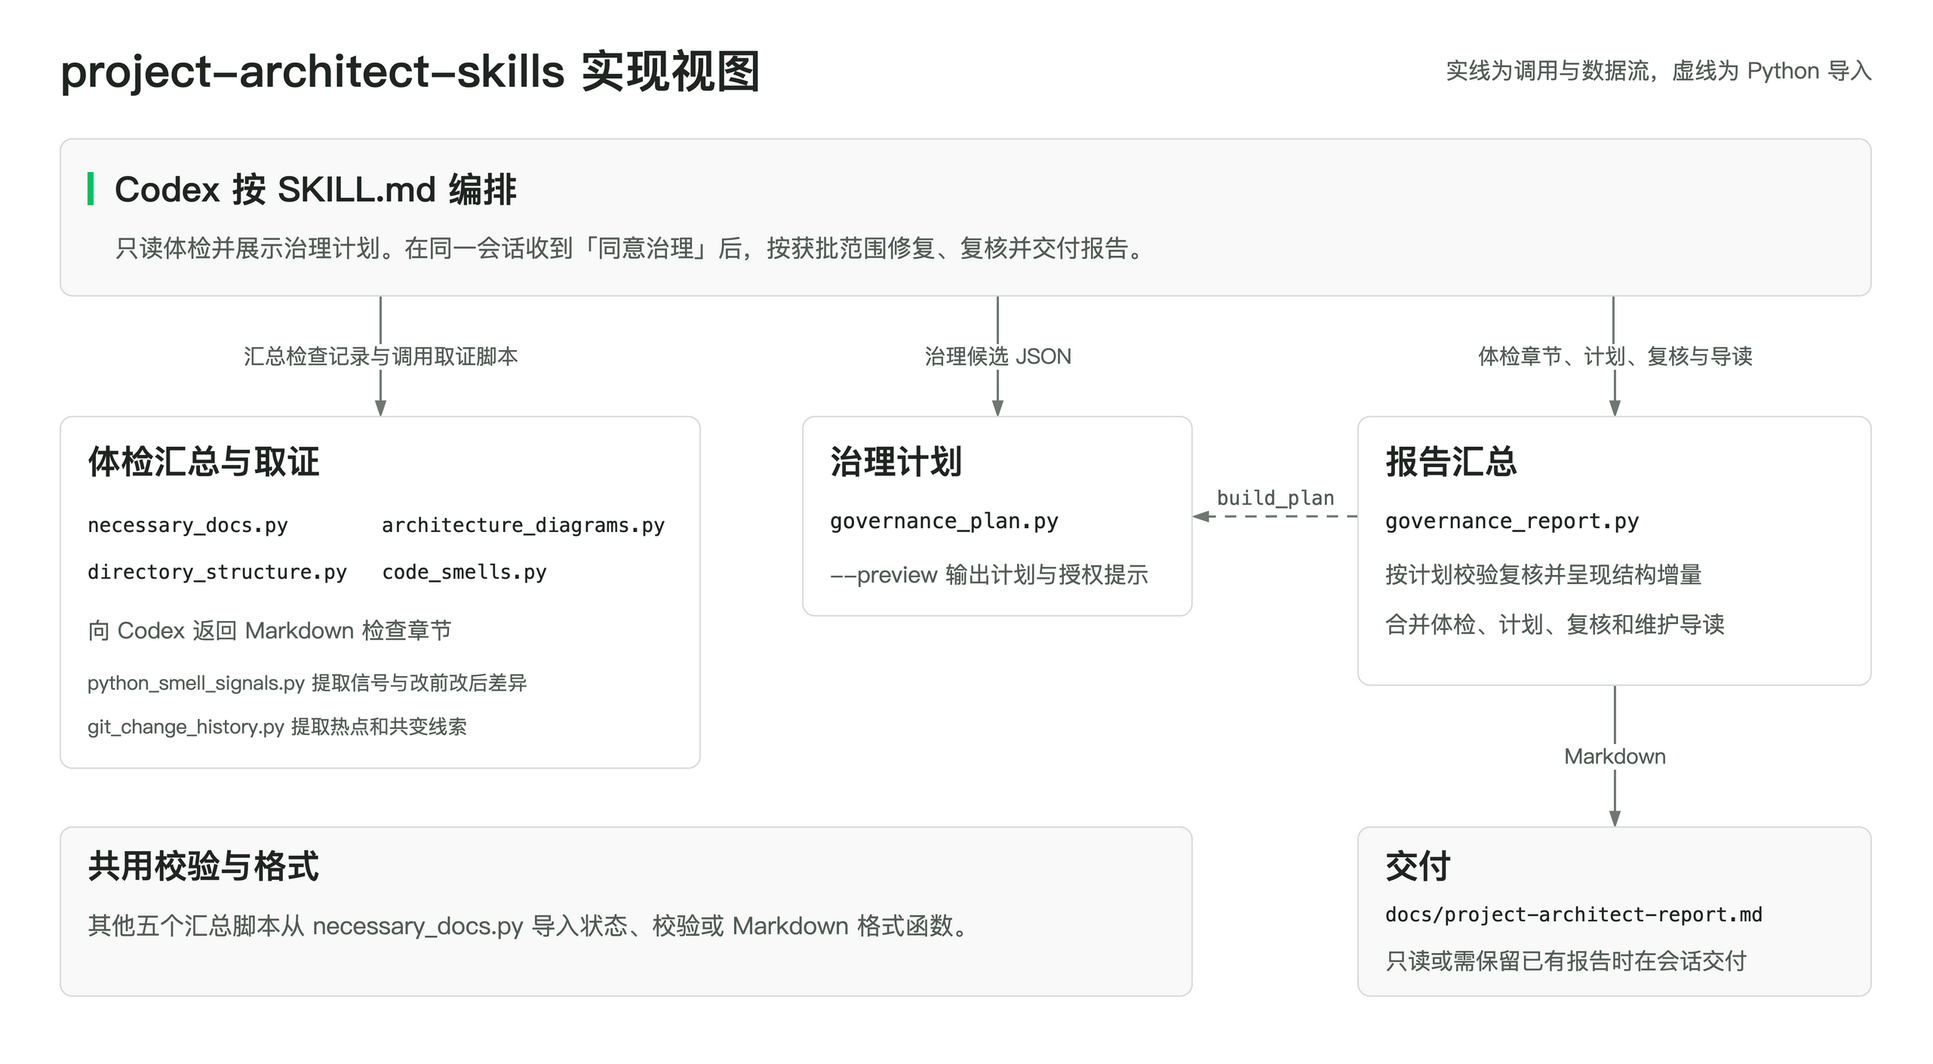
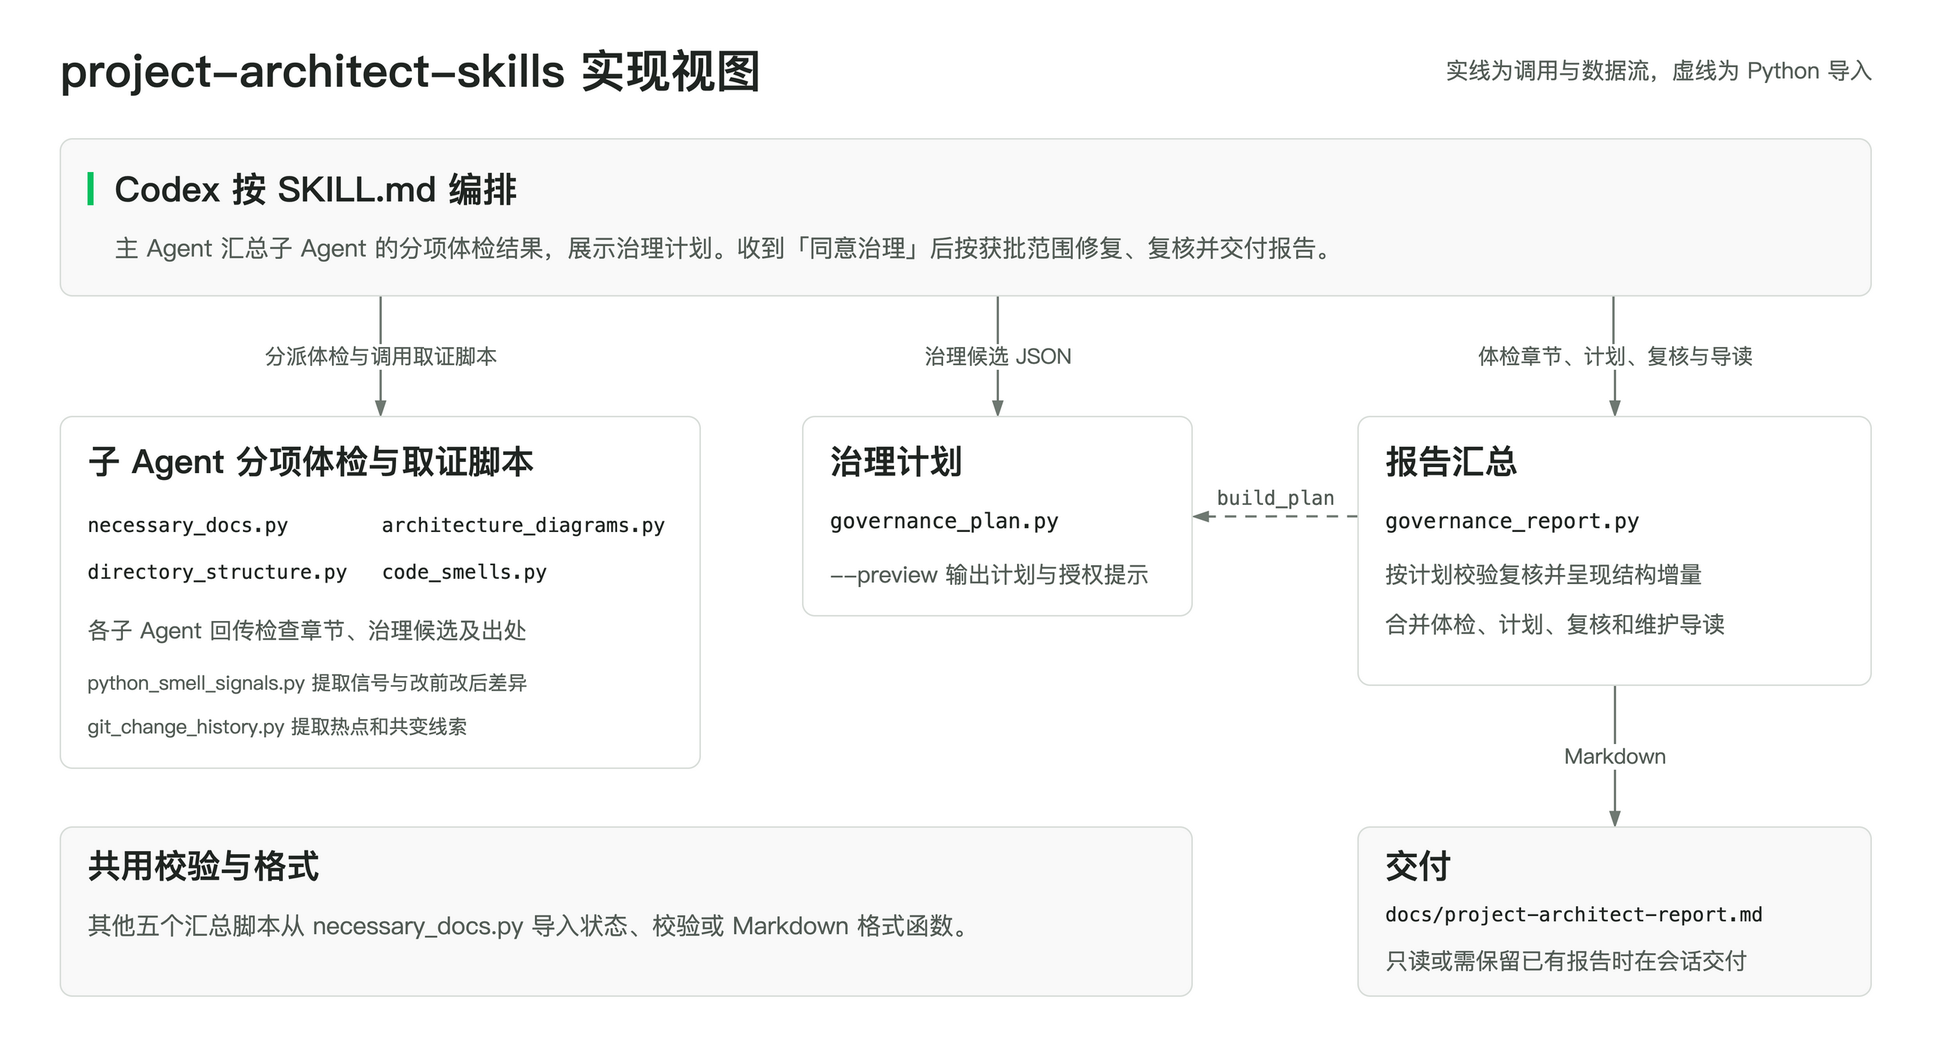
分派子 Agent 体检并按评估结果推荐治理事项

diff --git a/tests/test_governance_plan.py b/tests/test_governance_plan.py
@@ -53,7 +53,7 @@ class GovernancePlanTests(unittest.TestCase):
         self.assertEqual(result.stdout, "")
         self.assertIn(field, result.stderr)
 
-    def test_selects_first_three_eligible_candidates_and_retains_unselected_evidence(self):
+    def test_keeps_all_recommended_items_in_order_and_explains_other_findings(self):
         unresolved = candidate(
             "核实同名规则", "src/names.py::sort_names",
             status="待确认", reason="同名记录的业务口径尚无依据。",
@@ -62,15 +62,18 @@ class GovernancePlanTests(unittest.TestCase):
             ready("补写验证说明", "README.md#验证"),
             unresolved,
             ready("更新模块图", "docs/modules.md#依赖"),
+            candidate("统一示例排版", "docs/examples.md", status="暂缓", reason="排版不影响本轮交接。"),
             ready("补写运行示例", "README.md#运行"),
             ready("补写接口约定", "docs/api.md#导出"),
         ))
-        plan_items = [line for line in plan.splitlines() if line.startswith(("### 1.", "### 2.", "### 3.", "### 4."))]
-        self.assertEqual(plan_items, ["### 1. 补写验证说明", "### 2. 更新模块图", "### 3. 补写运行示例"])
+        selected, remaining = plan.split("### 未纳入本轮执行")
+        plan_items = [line for line in selected.splitlines() if line.startswith("### ")]
+        self.assertEqual(plan_items, [
+            "### 1. 补写验证说明", "### 2. 更新模块图", "### 3. 补写运行示例", "### 4. 补写接口约定",
+        ])
         self.assertIn("| 核实同名规则 | 待确认 | 同名记录的业务口径尚无依据。", plan)
         self.assertIn(unresolved["target"], plan)
-        self.assertIn("| 补写接口约定 | 暂缓 | 本轮已纳入 3 项", plan)
-        self.assertIn("docs/api.md#导出", plan)
+        self.assertIn("| 统一示例排版 | 暂缓 | 排版不影响本轮交接。", remaining)
 
     def test_selected_item_keeps_its_baseline_and_replay_details(self):
         selected = ready("补写验证说明", "README.md#验证")
@@ -89,7 +92,7 @@ class GovernancePlanTests(unittest.TestCase):
         plan = self.report(run_plan(*candidates))
         preview = self.report(run_plan(*candidates, preview=True))
         body, prompt = preview.rstrip().rsplit("\n\n", 1)
-        self.assertEqual(body, plan.rstrip().replace("本轮按以下顺序执行 3 项。", "本轮拟治理 3 项，待授权。"))
+        self.assertEqual(body, plan.rstrip().replace("本轮按以下顺序执行 4 项。", "本轮拟治理 4 项，待授权。"))
         self.assertEqual(prompt, "请在当前会话回复 **同意治理**，我会按以上计划逐项修复和验收。")
 
     def test_preview_without_selected_items_omits_consent_prompt(self):

diff --git a/skills/project-architect-skills/scripts/governance_plan.py b/skills/project-architect-skills/scripts/governance_plan.py
@@ -8,7 +8,6 @@ from pathlib import Path
 from necessary_docs import PENDING, required_text, table_row, text_list
 
 
-MAX_ITEMS = 3
 READY = "可执行"
 UNVERIFIED = "待验证"
 DEFERRED = "暂缓"
@@ -57,10 +56,8 @@ def select_candidates(candidates, mode):
             }
             for key, label in PLAN_FIELDS.items():
                 details[label] = required_text(candidate.get(key), f"{field}.{key}")
-            if len(selected) < MAX_ITEMS:
-                selected[target] = (title, details)
-                continue
-            status, reason = DEFERRED, f"本轮已纳入 {MAX_ITEMS} 项，按维护影响顺延。"
+            selected[target] = (title, details)
+            continue
         deferred.append((title, status, reason, impact, evidence))
     return selected, deferred
 

diff --git a/docs/project-architect-skills-PRD-v0.3.md b/docs/project-architect-skills-PRD-v0.3.md
@@ -28,7 +28,7 @@
 project-architect-skills
 ```
 
-命令以只读方式完成四项体检，再按维护影响生成治理计划。助手在会话中展示体检摘要、目标仓库及至多三项拟修复事项，并请用户回复 **同意治理**。如果会话里已有维护任务，流水线按它排列优先级。等待期间保持仓库只读。收到确认后，助手沿用原计划，先复查工作区，再逐项修复、验收和交付。[治理计划](../skills/project-architect-skills/references/governance-plan.md)
+命令以只读方式完成四项体检，再按维护影响生成治理计划。助手在会话中展示体检摘要、目标仓库及本轮推荐修复的事项，并请用户回复 **同意治理**。如果会话里已有维护任务，流水线按它排列优先级。等待期间保持仓库只读。收到确认后，助手沿用原计划，先复查工作区，再逐项修复、验收和交付。[治理计划](../skills/project-architect-skills/references/governance-plan.md)
 
 ![治理流水线。项目体检后展示治理计划并等待授权。用户同意后逐项修复和复核，再交付维护导读。](diagrams/product-functional-architecture.png)
 
@@ -36,8 +36,8 @@ project-architect-skills
 
 | 阶段 | 目标流程中的工作 |
 | --- | --- |
-| 项目体检 | 检查必要文档、架构图、目录结构和五类方法级代码异味，沿业务入口核对模块职责、重复规则和调用关系，记录证据及已读范围。 |
-| 治理计划与授权 | 按维护影响排序，优先选证据充分、可独立验收和回退的问题。影响相近时用本地 Git 热点辅助排序。每轮最多纳入三项，每项写清改动范围、基线、验收方法和回退办法。有可执行项时请用户在同一会话回复「同意治理」。已有明确授权的修复沿用原授权。 |
+| 项目体检 | 主 Agent 按检查项派发独立的只读子 Agent，分别核对必要文档、架构图、目录结构和代码异味。各自回传检查章节、候选及出处，主 Agent 核对覆盖范围、合并重复发现后统一制定计划。 |
+| 治理计划与授权 | 按维护影响排序，优先选证据充分、可独立验收和回退的问题。影响相近时用本地 Git 热点辅助排序。根据评估结果确定本轮推荐事项及数量，每项写清改动范围、基线、验收方法和回退办法。有可执行项时请用户在同一会话回复「同意治理」。已有明确授权的修复沿用原授权。 |
 | 执行复核 | 现有编码助手按顺序补文档、补图或调整代码。每项执行前核对当前工作区，执行后立即核对实际差异和验收结果。修改 Python 代码时，用本项改前快照对照改后的结构信号。 |
 | 维护导读 | 汇总发现、实际改动、验证证据和待确认事项。用 Git 共变线索补查可能受影响的位置。给新手指出当前可用的业务入口、已核实的调用方和下次修改的自查方法。 |
 
@@ -45,9 +45,9 @@ project-architect-skills
 
 ### 实现视图
 
-四个检查脚本接收 JSON，输出 Markdown 章节。Codex 用 `git_change_history.py` 对本轮文件取证，再用 `governance_plan.py --preview` 展示待授权计划。收到确认后按原计划范围执行，用 `python_smell_signals.py --compare` 对照改动前后的 Python 结构信号。`governance_report.py` 复用 `build_plan`，按入选顺序校验复核记录，再合并检查章节、计划、复核与导读。 [Skill 入口](../skills/project-architect-skills/SKILL.md)
+各子 Agent 按分工把取证记录以 JSON 传给对应的检查脚本，生成 Markdown 章节。主 Agent 按检查项合并章节，保留未查范围，并按治理目标归并候选。主 Agent 用 `git_change_history.py` 对本轮文件取证，再用 `governance_plan.py --preview` 展示待授权计划。收到确认后按原计划范围执行，用 `python_smell_signals.py --compare` 对照改动前后的 Python 结构信号。`governance_report.py` 复用 `build_plan`，按入选顺序校验复核记录，再合并检查章节、计划、复核与导读。 [Skill 入口](../skills/project-architect-skills/SKILL.md)
 
-![实现视图。Codex 调用体检脚本、展示待授权计划并等待用户确认，复核获批改动后汇总 Markdown 报告。](diagrams/implementation-architecture.png)
+![实现视图。Codex 派发子 Agent 体检，合并结果后展示待授权计划并等待用户确认，复核获批改动后汇总 Markdown 报告。](diagrams/implementation-architecture.png)
 
 [打开实现视图源图（draw.io）](diagrams/implementation-architecture.drawio)
 
@@ -131,13 +131,13 @@ project-architect-skills
 | 场景 | 通过条件 |
 | --- | --- |
 | 分别检查单体项目、多模块项目和大型工作区，并在其中一个项目限制可见目录 | 检查前记录规模及依据，按项目规模确定本轮取证范围。报告区分检查重点和实际已读范围，依据不足时标记规模待确认。 |
-| 在有两项可独立验证问题的样板仓库中输入 `project-architect-skills`，随后在同一会话回复「同意治理」 | 授权前完成四项体检并展示两项改动范围和验收方法，工作区保持原状。授权后逐项修复并交付报告，报告含两项的基线、复核证据和维护导读 |
+| 在有两项可独立验证问题的样板仓库中输入 `project-architect-skills`，随后在同一会话回复「同意治理」 | 支持子 Agent 时可核对四份独立的只读分工与回传记录。主 Agent 汇总四项体检后展示两项改动范围和验收方法，授权前工作区保持原状。授权后逐项修复并交付报告，报告含两项的基线、复核证据和维护导读 |
 | 计划展示后回复「不同意治理」 | 目标仓库保持原状，在会话交付检查结果、未执行建议和维护导读 |
 | README 有启动说明和内嵌模块依赖图，缺少测试说明 | 识别已有架构图，并指出验证改动的方法缺失，建议补到对应章节 |
 | 项目说明已写清用途和启动方式，缺少导出业务规则和模块职责 | 在「产品文档」和「架构文档」下分别列出缺口及补写位置。已有启动说明计入「技术文档」覆盖证据 |
 | 同一模块分别提供过时的依赖图、仅有的产品功能图、完整检索后确认无图的仓库，以及不可访问的外链 | 依次指出与源码不符的连线、欠缺的模块关系视图、缺图和外链待确认。架构图缺口只计一次 |
 | 仓库约定测试与源码同目录，另有一个业务模块放错位置。再移除约定，只保留同类目录样例 | 定位错放模块，列出路径和被违反的约定。共置测试判为符合约定。仅有目录惯例时，报告标明预期归属待确认 |
-| 分别准备五类异味的已标注函数，另加一个含许多短函数的长文件，以及一个仅有一段深嵌套的函数 | 五类都定位到对应函数并给出第 3.2 节的证据。按文件总行数误报 Large Method、按单段深嵌套误报 Bumpy Road 的次数均为零。本轮计划至多纳入三项，全部发现可查 |
+| 分别准备五类异味的已标注函数，另加一个含许多短函数的长文件，以及一个仅有一段深嵌套的函数 | 五类都定位到对应函数并给出第 3.2 节的证据。按文件总行数误报 Large Method、按单段深嵌套误报 Bumpy Road 的次数均为零。计划列出评估后推荐优化的事项及理由，全部发现可查 |
 | 对一个有既存未提交改动的 Python 文件做治理 | 用本项开始前的文件快照作基线，只记录本项新增、消失或程度有变化的结构信号，并独立记录行为验收 |
 | 在有代表性历史的样板仓库准备数个影响接近的已确认候选，分别设置实质修改、纯重命名和批量提交 | 只用实质修改作为排序证据，提供代表提交。共变涉及源码或测试时核对当前关系，确认后写入导读的自查步骤 |
 | 样板仓库标出三类模块问题各一处，并标出一对有意采用不同规则的相似实现 | 三个已知问题都能定位到源码并解释影响。有意区分的规则被错误建议合并的次数为零 |

diff --git a/skills/project-architect-skills/references/governance-plan.md b/skills/project-architect-skills/references/governance-plan.md
@@ -3,11 +3,11 @@
 ## 从体检发现确定本轮改动
 
 1. 汇集本轮所选检查的发现及维护影响，引用仓库相对路径、符号或章节。同一改动能解决的多个发现合为一项，并保留各自的证据。例如同一方法的多类异味、多个章节提到的同一图件缺口。需要一起修改和回退的文件归入同一事项，写清改动范围。
-2. 按当前维护任务的具体阻碍排列候选。没有指定任务时，优先处理直接妨碍启动、定位入口或验证改动的问题。优先选择证据充分、能独立验收和回退的事项。维护影响相近时，可用 [Git 变更热点](git-change-history.md)辅助排序。写明本轮优先理由和能复核的依据。
+2. 按当前维护任务的具体阻碍排列候选。没有指定任务时，优先处理直接妨碍启动、定位入口或验证改动的问题。优先选择证据充分、能独立验收和回退的事项。维护影响相近时，可用 [Git 变更热点](git-change-history.md)辅助排序。综合这些依据，选出最值得本轮优化的事项，数量由评估结果决定。逐项说明优先理由并引用可复核的依据。
 3. 给拟执行的事项记录最小改动范围、执行步骤和改前实测基线。先核对目标文件的当前内容及已有编辑，以原有入口、测试、固定输入或源码对照建立可重放的基线。验收写明操作、预期变化和需核对的行为。代码改动同时核对结构目标、主要调用方和用户可见行为。文档按说明实际操作，图件核对节点、连线和对应源码。回退写明恢复哪些位置、以哪个改前状态为准，以及怎样确认回退成功。
 4. 业务规则或适用性仍需核实的事项记为「待确认」。缺少关键基线或验收条件时记为「待验证」。其他因本轮优先级、权限或回退条件暂时无法安排的事项记为「暂缓」。记录具体原因，继续处理相互独立的事项。授权前以只读方式取证。基线操作会写入时，可在仓库外的隔离副本运行，并核对结果是否适用于当前工作区。
 
-每轮最多纳入三项。展示拟修复的目标仓库、具体范围和验收方式后，在当前会话等待用户回复「同意治理」或其他明确批准。已有明确授权的具体修复沿用原授权。工作区可写只表示具备写入能力。获批后沿用原计划顺序，开始每项前重新核对证据、基线和工作区状态。已解决的事项跳过。证据、编辑或验收条件变化时，记录跳过或暂缓的原因。新增或扩大改动范围须先获得确认。保留原计划和实际复核记录，用计划项的序号和标题关联两者。
+展示拟修复的目标仓库、具体范围和验收方式后，在当前会话等待用户回复「同意治理」或其他明确批准。已有明确授权的具体修复沿用原授权。工作区可写只表示具备写入能力。获批后沿用原计划顺序，开始每项前重新核对证据、基线和工作区状态。已解决的事项跳过。证据、编辑或验收条件变化时，记录跳过或暂缓的原因。新增或扩大改动范围须先获得确认。保留原计划和实际复核记录，用计划项的序号和标题关联两者。
 
 ### 代码重构的行为基线
 
@@ -23,7 +23,7 @@
 
 ## 生成报告章节
 
-用 `python3 -B <本 Skill 目录>/scripts/governance_plan.py` 从标准输入读取 UTF-8 JSON，或传入记录文件。宿主判断优先级和执行条件，脚本按提交顺序挑选前三个「可执行」事项，将其余发现和原因保留在同一 Markdown 章节。等待授权时加 `--preview`，有入选事项才输出回复「同意治理」的提示。获批后复用同一计划记录汇总正式报告，将计划放在体检与执行复核之间。
+用 `python3 -B <本 Skill 目录>/scripts/governance_plan.py` 从标准输入读取 UTF-8 JSON，或传入记录文件。宿主将本轮推荐且具备执行条件的事项标为「可执行」。脚本按提交顺序列出全部「可执行」事项，并在同一章节保留其余发现及未纳入的原因。等待授权时加 `--preview`，有入选事项才输出回复「同意治理」的提示。获批后复用同一计划记录汇总正式报告，将计划放在体检与执行复核之间。
 
 - `mode` 为 `execute`（拟定或汇总治理计划）或 `inspect`（只交付检查与建议）。`execute` 选择可执行事项，写入由宿主根据当前会话的授权决定。`inspect` 的候选均显示「未执行」，适用于只读、用户拒绝或仓库不可写的情况。
 - `candidates` 按优先级排列，无候选时传 `[]`。每项含 `target`（合并后的唯一治理目标，可用路径及符号或章节表达）、`title`、非空 `evidence` 出处数组、`impact`、`status` 和 `reason`。`reason` 对执行项给出优先理由，对其余项说明受阻或暂缓原因。仅检查的候选可用 `status: "未执行"`，并说明该建议对应的检查目的或已知限制。

diff --git a/README.md b/README.md
@@ -10,7 +10,7 @@
 project-architect-skills
 ```
 
-默认调用先只读完成四项体检，随后展示体检摘要和至多三项拟修复事项。计划给出改动范围、改前基线、验收方法和回退办法。确认后，在同一会话回复 **同意治理**，助手会按计划逐项修复和验收。已有维护任务可以直接附上，例如「我要改订单导出的列名」。只想查看某项诊断时，可以输入「用 project-architect-skills 只读检查代码异味」或指定其他检查项。[治理计划](skills/project-architect-skills/references/governance-plan.md)
+默认调用时，主 Agent 把必要文档、架构图、目录结构和代码异味分别派给独立的只读子 Agent。各自在自己的上下文中取证，交回检查章节、候选及出处。主 Agent 合并重复发现，展示体检摘要，并按维护影响推荐本轮最值得优化的事项。计划给出改动范围、改前基线、验收方法和回退办法。确认后，在同一会话回复 **同意治理**，助手会按计划逐项修复和验收。已有维护任务可以直接附上，例如「我要改订单导出的列名」。只想查看某项诊断时，可以输入「用 project-architect-skills 只读检查代码异味」或指定其他检查项。[治理计划](skills/project-architect-skills/references/governance-plan.md)
 
 检查前先判断项目规模。小项目通查相关资料，中等项目分模块核对，大项目优先检查主要业务路径和跨模块依赖。判档和取证方式见[项目规模与取证范围](skills/project-architect-skills/references/project-size.md)。
 
@@ -99,7 +99,7 @@ git -C "$governance_project" -c user.name=Fixture -c user.email=fixture@example.
 printf '%s\n' "$governance_project"
 ```
 
-在可写的 Codex 会话中打开输出的临时目录，输入 `project-architect-skills`。先核对体检摘要和待授权计划都已展示，列出的两项分别指向 `README.md` 和 `test_names.py`。在临时仓库根目录运行 `git status --short`，应无输出。随后在同一会话回复 **同意治理**，完成后核对以下结果。
+在可写的 Codex 会话中打开输出的临时目录，输入 `project-architect-skills`。在支持子 Agent 的宿主中，核对四项体检各自有独立的派发与回传记录，计划在汇总后统一展示。核对体检摘要和待授权计划，列出的两项分别指向 `README.md` 和 `test_names.py`。在临时仓库根目录运行 `git status --short`，应无输出。随后在同一会话回复 **同意治理**，完成后核对以下结果。
 
 - `README.md` 增加验收步骤及预期输出。`test_names.py` 移到 `tests/`。
 - 在临时仓库根目录运行 `python3 -B names.py`，仍输出 `Ada, Bob`。运行 `python3 -B -m unittest discover -s tests`，1 项通过。
